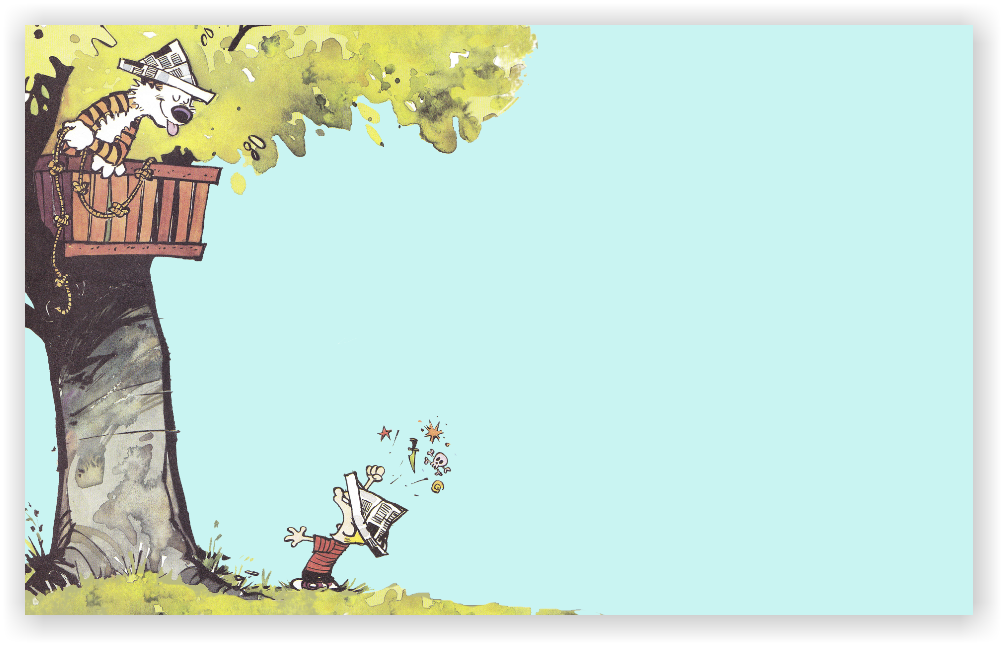
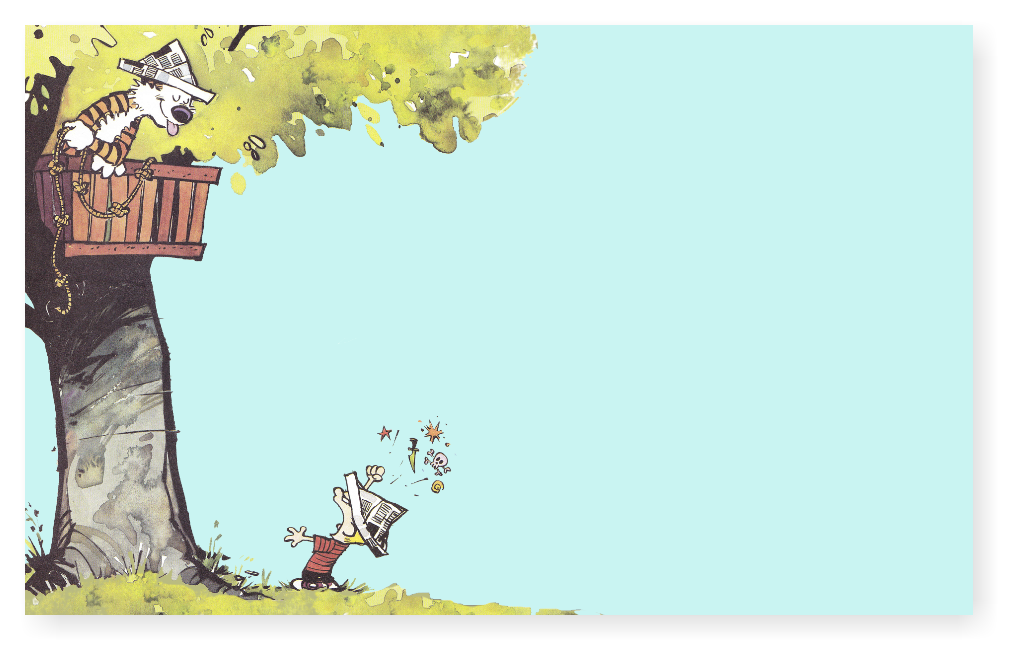
fixed shadow and added stroke

Changed region(s): [[0.0, 0.0308, 0.9841, 0.9846]]

diff --git a/main.go b/main.go
@@ -46,7 +46,7 @@ func main() {
 	width := inputImage.Bounds().Dx()
 	height := inputImage.Bounds().Dy()
 
-	step := 60
+	step := 75
 
 	newWidth := width + step
 	newHeight := height + step
@@ -61,8 +61,8 @@ func main() {
 		dc.Fill()
 	}
 
-	dc.DrawRectangle(23, 23, float64(width+step), float64(height+step))
-	dc.SetRGBA(0.1, 0.1, 0.1, 0.3)
+	dc.DrawRectangle(40, 40, float64(width-step), float64(height-step))
+	dc.SetRGBA(0.1, 0.1, 0.1, 0.2)
 	dc.Fill()
 
 	dropShadow := blur.Box(dc.Image(), 20.0)
@@ -74,6 +74,10 @@ func main() {
 
 	dc.DrawImage(inputImage, 25, 25)
 	dc.Fill()
+
+	dc.DrawRectangle(25, 25, float64(width), float64(height))
+	dc.SetRGB(0.1, 0.1, 0.1)
+	dc.Stroke()
 
 	dc.SavePNG(imageName + "-out" + imageExtension)
 

diff --git a/README.md b/README.md
@@ -40,3 +40,10 @@ Output
 Output
 
 <img src="images/joey-out.png" alt="Joey" height="210px">
+
+# Releases
+
+| Release | Description                                                                                      |
+| ------- | ------------------------------------------------------------------------------------------------ |
+| 1.0     | <ul><li>Basic working version where a shadow effect is added to a given png/jpg image.</li></ul> |
+| 1.1     | <ul><li>Added stroke</li><li>Fixed the shadow effect</li></ul>                                   |
